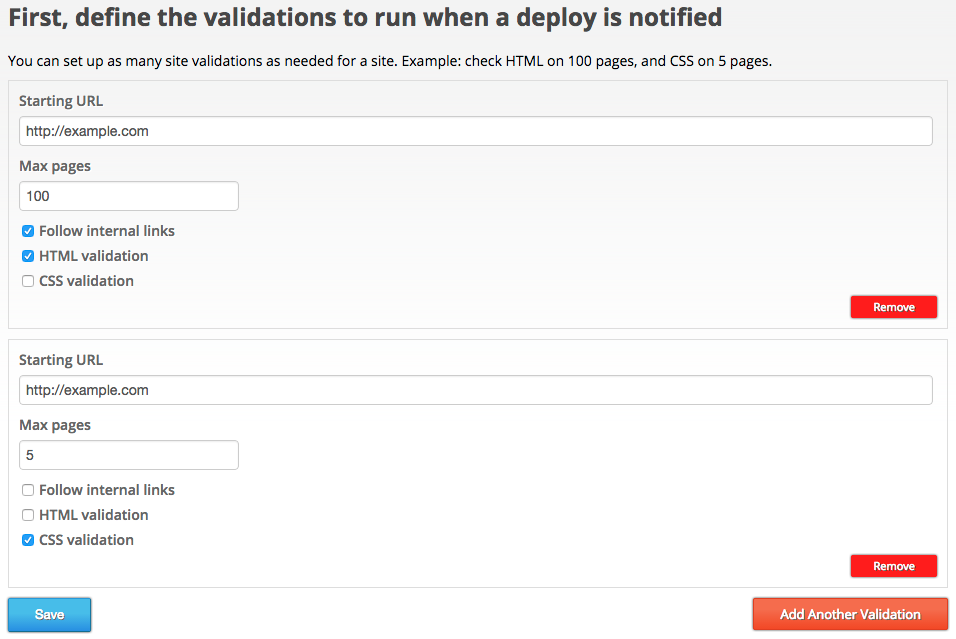
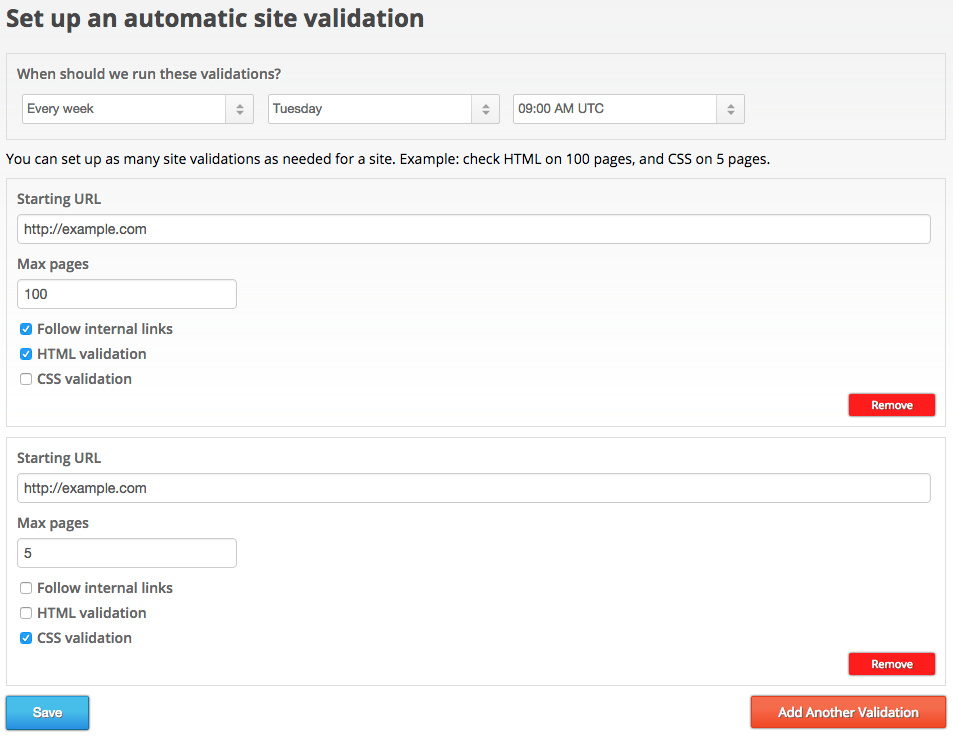
update docs about scheduled validations

diff --git a/docs/continuous-validation.md b/docs/continuous-validation.md
@@ -1,20 +1,24 @@
 # Continuous Validation
 
-Continous Validation lets you run automatic validations on your sites when a new version is deployed.
+You can set up automatic validations for your sites, to be run periodically or triggered when a deploy hook is received.
 
-<iframe src="//fast.wistia.net/embed/iframe/w2xu1aedtf?videoFoam=true" allowtransparency="true" scrolling="no" class="wistia_embed" name="wistia_embed" allowfullscreen mozallowfullscreen webkitallowfullscreen oallowfullscreen msallowfullscreen width="720" height="478"></iframe><script src="//fast.wistia.net/assets/external/E-v1.js"></script>
+## Setting up an Automatic Validation
 
-## Setting up a Deploy Validator
+When you set up an automatic validation, you can specify an schedule for it. This is optional and can be set to be daily, weekly or monthly, specifying as well the exact day (of the week or month) and the hour.
 
-To set up automatic validations for your sites, you should first define what validations should be run. We can define one or several validations to be started, in this example we're specifying that a site should validate HTML on up to 100 pages and CSS on up to 5 pages:
+Then, you can define one or several validations to be started. In this example we're specifying that a site should validate HTML on up to 100 pages and CSS on up to 5 pages, every tuesday at 09:00 AM.
 
-![New deploy validator form](img/new-deploy-validator-form.png)
+![New automatic validator form](img/new-deploy-validator-form.png)
 
 ## Setting up a Deploy Notification
 
-Once you've defined your deploy validator, you can tell your hosting platform to notify us when a new version of your site is deployed. Basically, it's as simple as letting them know the URL of the deploy validator you just defined.
+Continous Validation lets you also run automatic validations on your sites when a new version is deployed.
 
-On the following examples, we'll suppose the deploy validator you defined has this URL:
+<iframe src="//fast.wistia.net/embed/iframe/w2xu1aedtf?videoFoam=true" allowtransparency="true" scrolling="no" class="wistia_embed" name="wistia_embed" allowfullscreen mozallowfullscreen webkitallowfullscreen oallowfullscreen msallowfullscreen width="720" height="478"></iframe><script src="//fast.wistia.net/assets/external/E-v1.js"></script>
+
+Once you've defined your automatic validator, you can tell your hosting platform to notify us when a new version of your site is deployed. Basically, it's as simple as letting them know the URL of the automatic validator you just defined.
+
+On the following examples, we'll suppose the automatic validator you defined has this URL:
 
 ```
 https://app.sitevalidator.com/u/abc/d/efg
@@ -30,7 +34,7 @@ $ curl -X POST -d '' https://app.sitevalidator.com/u/abc/d/efg
 
 ## Example: Netlify
 
-[Netlify](https://www.netlify.com/) is a hosting platform for static websites, and offers the simplest integration possible. You just need to paste your deploy validator URL into the Notifications section of your site, like this:
+[Netlify](https://www.netlify.com/) is a hosting platform for static websites, and offers the simplest integration possible. You just need to paste your automatic validator URL into the Notifications section of your site, like this:
 
 ![Netlify integration](img/netlify-integration.png)
 
@@ -84,7 +88,7 @@ environment:
 
 ## Example: Github Pages
 
-[Github Pages](https://pages.github.com/) let you define webhooks for different events. You just need to enter your deploy validator URL in the Payload URL field, and choose the individual event for **page build**:
+[Github Pages](https://pages.github.com/) let you define webhooks for different events. You just need to enter your automatic validator URL in the Payload URL field, and choose the individual event for **page build**:
 
 ![Github Pages integration](img/github-pages-integration.png)
 
@@ -96,12 +100,12 @@ If your hosting platform is not listed here, feel free to [contact us](mailto:su
 
 ## Pausing a validator
 
-You can pause a deploy validator, so that it will not fire any validations until you re-activate it.
+You can pause a automatic validator, so that it will not fire any validations until you re-activate it.
 
 ## Response status codes
 
 When a deploy notification is received, Site Validator will return one of these possible status codes:
 
 * **201 Created**. All went well and the site validations were initiated.
-* **404 Not Found**. The deploy validator was not found. You might have typed it incorrectly, or removed it. When a deploy validator is paused, a 404 will be returned.
-* **400 Bad Request**. The deploy validator was found, but site validations could not be started. Normally, this means you have run out of validation credits.
+* **404 Not Found**. The automatic validator was not found. You might have typed it incorrectly, or removed it. When a automatic validator is paused, a 404 will be returned.
+* **400 Bad Request**. The automatic validator was found, but site validations could not be started. Normally, this means you have run out of validation credits.
